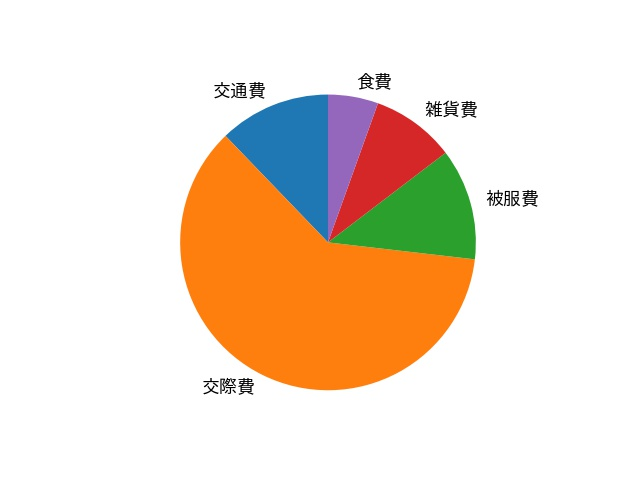
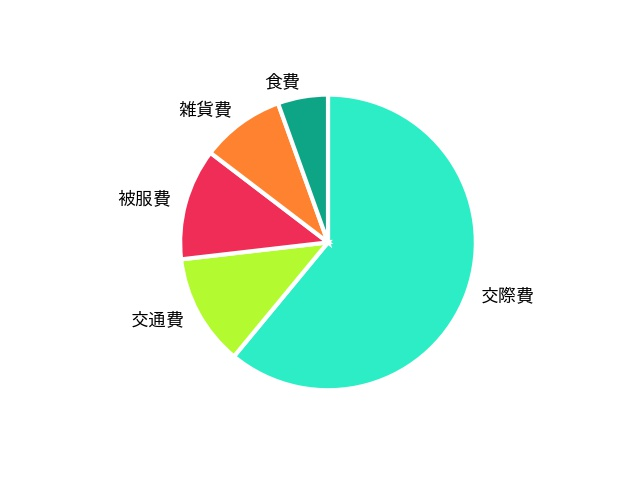
color was modified

Changed region(s): [[0.1875, 0.1562, 0.8438, 0.8438]]

diff --git a/webaccountbookapi/static/webaccountbookapi/index.css b/webaccountbookapi/static/webaccountbookapi/index.css
@@ -79,26 +79,33 @@ nav li {
 .form_content {
   text-align: center; }
 
-#monthly_analyze img {
-  width: 40%; }
+#monthly_analyze {
+  overflow: auto; }
+  #monthly_analyze img {
+    width: calc(40%); }
 
 #monthly_list {
   width: calc(40%);
   border-bottom: solid 1px #bbb;
   float: right; }
+  #monthly_list table {
+    width: calc(80%);
+    margin: 0 auto; }
+  #monthly_list .sum_price {
+    padding-left: calc(15%); }
+    #monthly_list .sum_price .space {
+      display: inline-block;
+      padding-right: calc(35%); }
 
 th, td {
   padding-right: 10px; }
 
-.sum_price {
-  padding-left: 60px; }
-  .sum_price .space {
-    display: inline-block;
-    padding-right: 145px; }
-
 .message {
   margin-top: 20px;
   background-color: #EF2D56;
+  color: #fefefe; }
+
+footer {
   color: #fefefe; }
 
 /*# sourceMappingURL=index.css.map */

diff --git a/webaccountbookapi/static/webaccountbookapi/index.scss b/webaccountbookapi/static/webaccountbookapi/index.scss
@@ -110,13 +110,25 @@ nav li{
 
 #monthly_analyze{
   img{
-    width: 40%
+    width: calc(40%);
   }
+  overflow: auto;
 }
 
 #monthly_list{
   width: calc(40%);
   border-bottom: solid 1px #bbb;
+  table{
+    width: calc(80%);
+    margin: 0 auto;
+  }
+  .sum_price{
+    padding-left: calc(15%);
+    .space{
+      display: inline-block;
+      padding-right: calc(35%);
+    }
+  }
   float:right;
 }
 
@@ -124,16 +136,13 @@ th,td{
   padding-right: 10px;
 }
 
-.sum_price{
-  padding-left: 60px;
-  .space{
-    display: inline-block;
-    padding-right: 145px;
-  }
-}
+
 
 .message{
   margin-top: 20px;
   background-color: $accent-color;
+  color: $white-color;
+}
+footer{
   color: $white-color;
 }

diff --git a/webaccountbookapi/templates/webaccountbookapi/index.html b/webaccountbookapi/templates/webaccountbookapi/index.html
@@ -112,5 +112,6 @@
         </tr>
       {% endfor %}
     </table>
+</div>
 
 {% endblock %}

diff --git a/webaccountbookapi/views.py b/webaccountbookapi/views.py
@@ -65,8 +65,9 @@ def index(request):
     }
     if this_month_purchase_list:
         this_month_purchase_df = read_frame(this_month_purchase_list)
-        genre_proportion = this_month_purchase_df.groupby(by="genre").sum()
-        genre_proportion['price'].plot(fontsize=13,ylabel="",kind="pie",startangle=90,counterclock=True,textprops=None)
+        genre_proportion = this_month_purchase_df.groupby(by="genre").sum().sort_values("price",ascending=False)
+        colors = ["#2dedc7","#B3FB30","#EF2D56","#FF8230","#0EA486","#7CBD03","#A50D2E","#C64C00"]
+        genre_proportion['price'].plot(fontsize=13,ylabel="",kind="pie",startangle=90,wedgeprops={'linewidth':3,'edgecolor':'white'},counterclock=False,colors=colors)
         plt.title("")
         file_name = "graph" + user.username + ".jpg"
         image_url = os.path.join(settings.MEDIA_ROOT,file_name)
